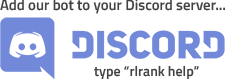
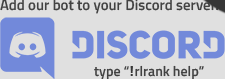
[DISCORD] Added exclamation mark in-front of commands

diff --git a/server/services/discord.js b/server/services/discord.js
@@ -88,14 +88,14 @@ function start() {
 
   bot.on('message', function(user, userID, channelID, message, event) {
     swiftping.logger('info', 'discord', 'A message was sent to ' + bot.username + ' bot.', {user: user, userID: userID, channelID: channelID, message: message, event: event});
-    if (message.split(' ')[0] != 'rlrank')
-    {
-      return false;
-    }
-
-    if (message == 'rlrank help')
+    if (message == '!rlrank help' || message == 'rlrank help')
     {
       return showHelp();
+    }
+
+    if (message.split(' ')[0] != '!rlrank')
+    {
+      return false;
     }
 
     var input = message.split(' ');
@@ -115,7 +115,7 @@ function start() {
     {
       bot.sendMessage({
         to: channelID,
-        message: 'Hello ' + user + '!\n\nEnter your **Steam Profile URL**, **PSN Username** or **Xbox Gamertag**, optionally followed by a Rocket League playlist.\n\n**Steam**\n\n`rlrank http://steamcommunity.com/id/<profile_name> steam`\n\n`rlrank 76561198076736523 steam`\n\n`rlrank kronovirl steam`\n\n**PS4**\n\n`rlrank KronoviIRL ps4` \n\n**Xbox One**\n\n`rlrank KronoviRL xbox`\n\nIf you want to view a specific playlist, enter either `1v1`, `2v2`, `3v3` (Solo), `3v3solo` or `3v3team` after your chosen platform\n\ne.g. `rlrank KronoviRL steam 1v1`.' +
+        message: 'Hello ' + user + '!\n\nEnter your **Steam Profile URL**, **PSN Username** or **Xbox Gamertag**, optionally followed by a Rocket League playlist.\n\n**Steam**\n\n`!rlrank http://steamcommunity.com/id/<profile_name> steam`\n\n`!rlrank 76561198076736523 steam`\n\n`!rlrank kronovirl steam`\n\n**PS4**\n\n`!rlrank KronoviIRL ps4` \n\n**Xbox One**\n\n`!rlrank KronoviRL xbox`\n\nIf you want to view a specific playlist, enter either `1v1`, `2v2`, `3v3` (Solo), `3v3solo` or `3v3team` after your chosen platform\n\ne.g. `!rlrank KronoviRL steam 1v1`.' +
         '\n\nView your full ranks, stats and graphs any time at https://rocketleaguerank.com.'
       });
     }
@@ -143,12 +143,12 @@ function start() {
 
       if (!(playlist in validPlaylists))
       {
-        return showError('The playlist you entered does not appear to be valid. :sweat: Enter either `1v1`, `2v2`, `3v3` (Solo), `3v3solo`, `3v3team`, `all` or leave it blank for all.\n\nExample: `rlrank KronoviRL steam 2v2`');
+        return showError('The playlist you entered does not appear to be valid. :sweat: Enter either `1v1`, `2v2`, `3v3` (Solo), `3v3solo`, `3v3team`, `all` or leave it blank for all.\n\nExample: `!rlrank KronoviRL steam 2v2`');
       }
 
       if (!(platform in validPlatforms))
       {
-        return showError('The platform you entered does not appear to be valid. :sweat: Enter either `steam`, `pc`, `xbox`, `xboxone`, `psn` or `ps4`.\n\nExample: `rlrank KronoviRL steam 1v1`');
+        return showError('The platform you entered does not appear to be valid. :sweat: Enter either `steam`, `pc`, `xbox`, `xboxone`, `psn` or `ps4`.\n\nExample: `!rlrank KronoviRL steam 1v1`');
       }
 
       profile.getProfileByInput(input.join(' '), platform, function(err, profile) {
